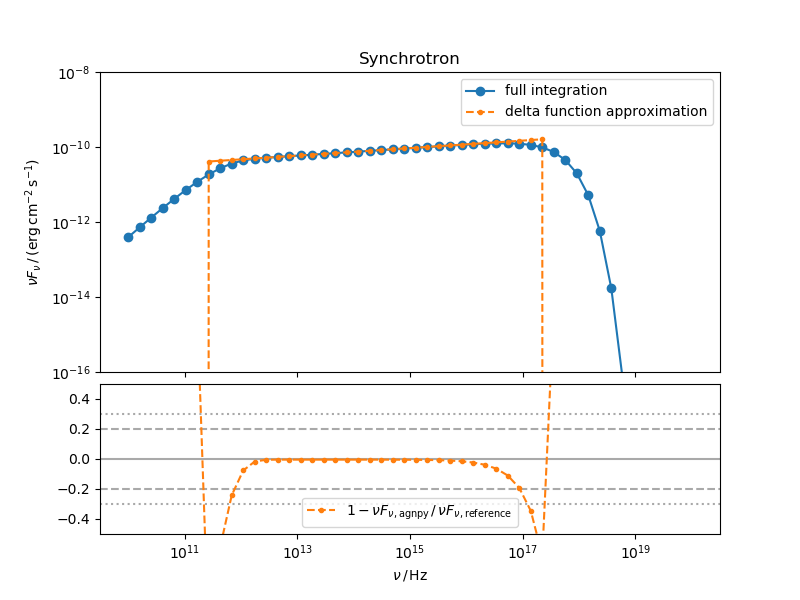
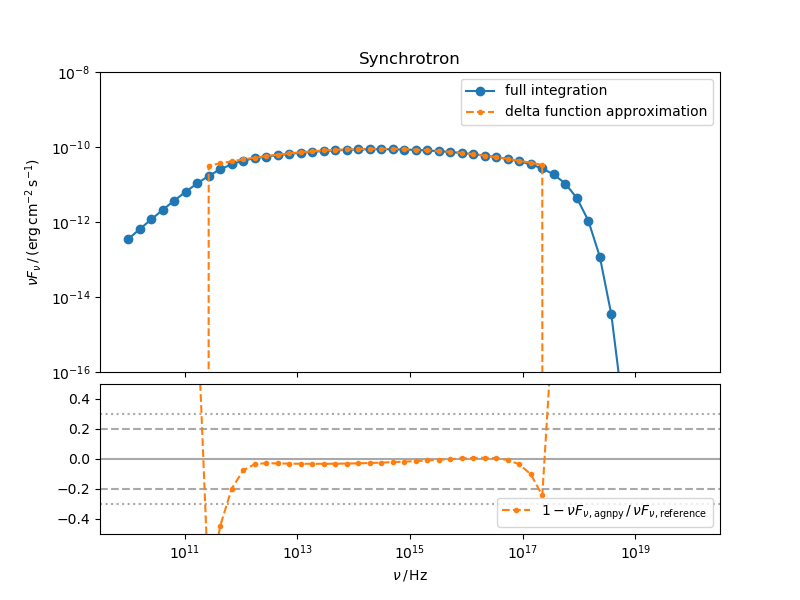
used LogParabola in delta-func approx crosscheck

diff --git a/agnpy/tests/test_synchrotron.py b/agnpy/tests/test_synchrotron.py
@@ -25,12 +25,25 @@ data_dir = f"{agnpy_dir}/data"
 # here as a default we use the same parameters of Figure 7.4 in Dermer Menon 2009
 spectrum_norm_test = 1e48 * u.Unit("erg")
 p_test = 2.8
+q_test = 0.2
+gamma_0 = 1e3
 gamma_min_test = 1e2
 gamma_max_test = 1e5
 pwl_dict_test = {
     "type": "PowerLaw",
     "parameters": {
         "p": p_test,
+        "gamma_min": gamma_min_test,
+        "gamma_max": gamma_max_test,
+    },
+}
+# dictionary test for log parabola
+lp_dict_test = {
+    "type": "LogParabola",
+    "parameters": {
+        "p": p_test,
+        "q": q_test,
+        "gamma_0": gamma_0,
         "gamma_min": gamma_min_test,
         "gamma_max": gamma_max_test,
     },
@@ -49,6 +62,15 @@ pwl_blob_test = Blob(
     B_test,
     spectrum_norm_test,
     pwl_dict_test,
+)
+lp_blob_test = Blob(
+    R_b_test,
+    z_test,
+    delta_D_test,
+    Gamma_test,
+    B_test,
+    spectrum_norm_test,
+    lp_dict_test,
 )
 
 
@@ -152,7 +174,7 @@ class TestSynchrotron:
         """check that in a given frequency range the full synchrotron SED coincides
         with the delta function approximation"""
         nu = np.logspace(10, 20) * u.Hz
-        synch = Synchrotron(pwl_blob_test)
+        synch = Synchrotron(lp_blob_test)
         sed_full = synch.sed_flux(nu)
         sed_delta = synch.sed_flux_delta_approx(nu)
         make_comparison_plot(
@@ -167,8 +189,8 @@ class TestSynchrotron:
             1e-16,
             1e-8,
         )
-        # requires that the SED points deviate less than 10% in a limit
-        nu_range = [1e12, 1e16] * u.Hz
+        # requires that the delta approximation SED points deviate less than 10%
+        nu_range = [1e12, 1e17] * u.Hz
         assert check_deviation_within_bounds(nu, sed_full, sed_delta, 0, 0.1, nu_range)
 
     def test_nu_synch_peak(self):
